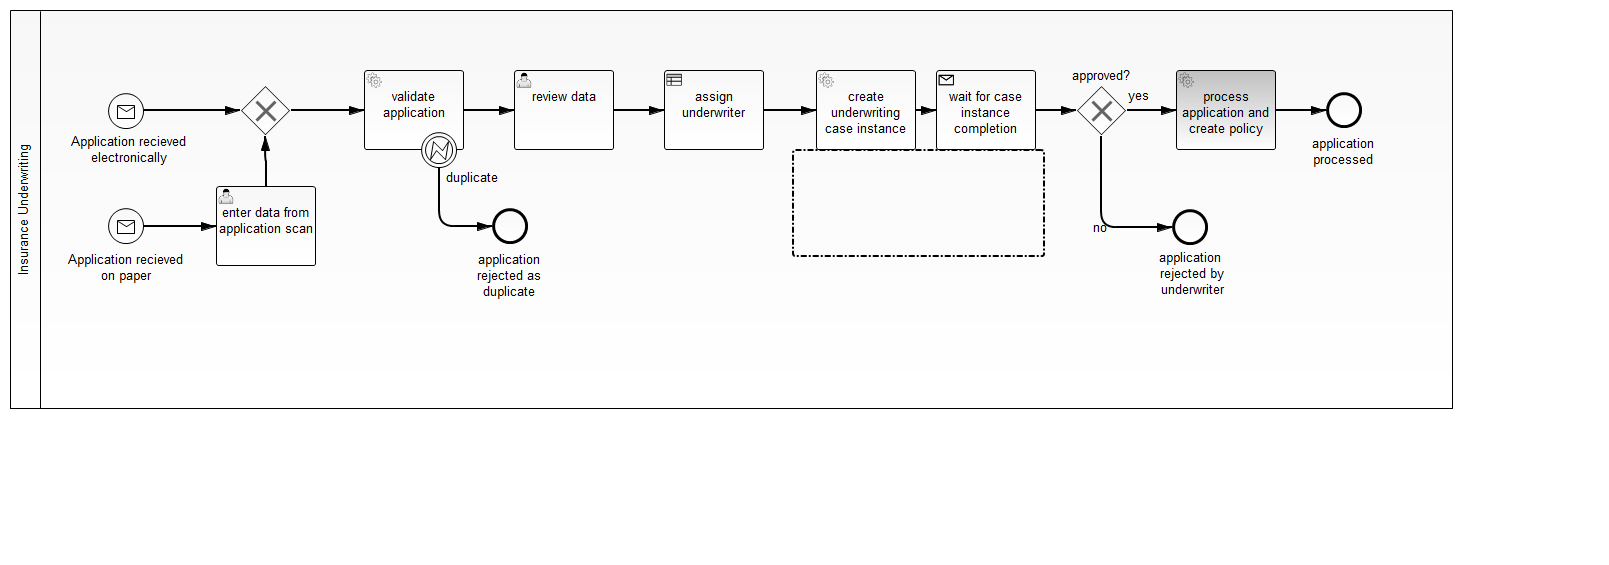
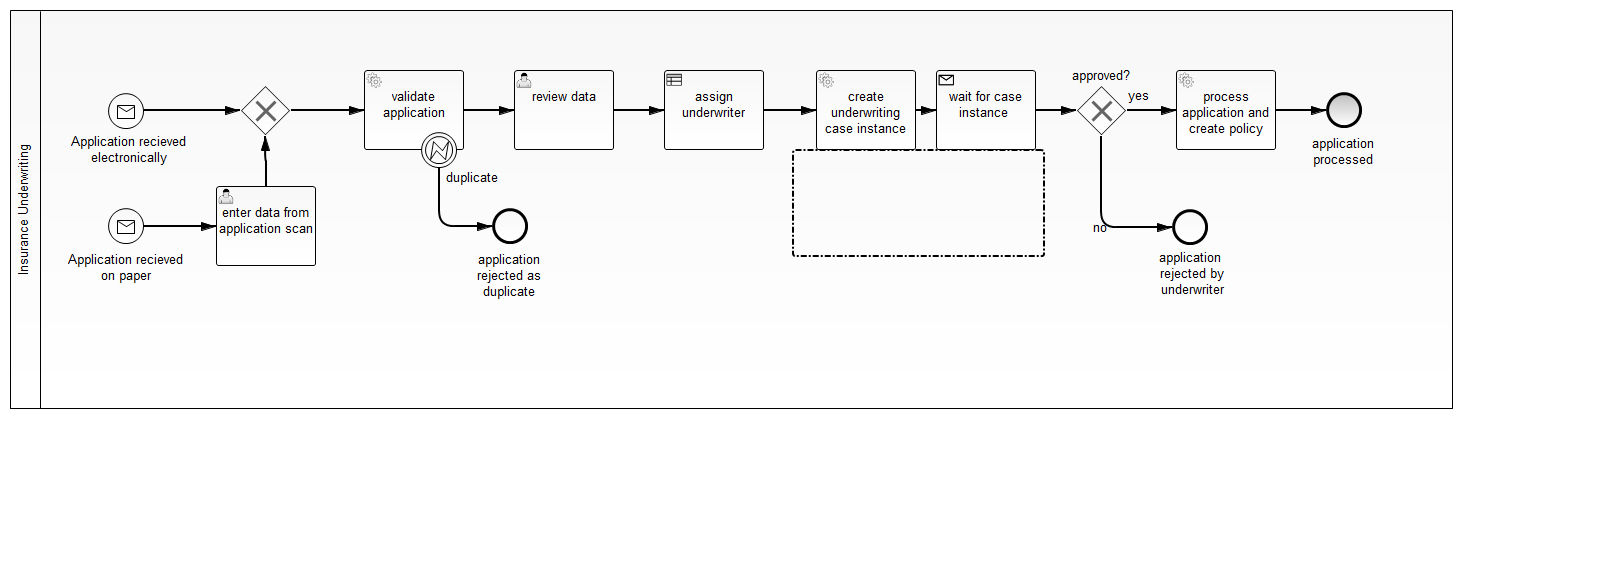
CMMN/BPMN combination now working

Changed region(s): [[0.7147, 0.1204, 0.839, 0.2106], [0.5904, 0.1805, 0.6526, 0.2407]]

diff --git a/one-time-examples/2015-01-webinars/webinar-cmmn/src/test/java/com/camunda/demo/webinar/cmmn/InMemoryH2Test.java b/one-time-examples/2015-01-webinars/webinar-cmmn/src/test/java/com/camunda/demo/webinar/cmmn/InMemoryH2Test.java
@@ -13,6 +13,7 @@ import org.camunda.bpm.engine.impl.persistence.entity.HistoricCaseActivityInstan
 import org.camunda.bpm.engine.impl.util.LogUtil;
 import org.camunda.bpm.engine.runtime.CaseExecution;
 import org.camunda.bpm.engine.runtime.CaseInstance;
+import org.camunda.bpm.engine.runtime.ProcessInstance;
 import org.camunda.bpm.engine.task.Task;
 import org.camunda.bpm.engine.test.ProcessEngineRule;
 import org.camunda.bpm.engine.test.Deployment;
@@ -84,24 +85,54 @@ public class InMemoryH2Test {
     System.out.println("####################");
     caseExecutions = processEngine().getCaseService().createCaseExecutionQuery().caseInstanceId(caseInstance.getId()).list();
     for (CaseExecution otherCaseExecution : caseExecutions) {
-      System.out.println(otherCaseExecution.getActivityName() + " -> " + ((CaseExecutionEntity)otherCaseExecution).getCurrentState().toString());
+      System.out.println(otherCaseExecution.getActivityName() + " -> " + ((CaseExecutionEntity) otherCaseExecution).getCurrentState().toString());
     }
     System.out.println("####################");
-    List<HistoricCaseActivityInstance> caseActivityInstances = processEngine().getHistoryService().createHistoricCaseActivityInstanceQuery().caseInstanceId(caseInstance.getId()).list();
+    List<HistoricCaseActivityInstance> caseActivityInstances = processEngine().getHistoryService().createHistoricCaseActivityInstanceQuery()
+        .caseInstanceId(caseInstance.getId()).list();
     for (HistoricCaseActivityInstance historicCaseActivityInstance : caseActivityInstances) {
-      System.out.println(historicCaseActivityInstance.getCaseActivityName() + " -> " + ((HistoricCaseActivityInstanceEntity)historicCaseActivityInstance).getCaseActivityInstanceState());
+      System.out.println(historicCaseActivityInstance.getCaseActivityName() + " -> "
+          + ((HistoricCaseActivityInstanceEntity) historicCaseActivityInstance).getCaseActivityInstanceState());
     }
     System.out.println("####################");
-
 
     caseInstance = processEngine().getCaseService().createCaseInstanceQuery().caseInstanceId(caseInstance.getId()).singleResult();
-    assertTrue( caseInstance.isCompleted());
+    assertTrue(caseInstance.isCompleted());
 
-    HistoricCaseInstance historicCaseInstance = processEngine().getHistoryService().createHistoricCaseInstanceQuery().caseInstanceId(caseInstance.getId()).singleResult();
-    assertTrue( historicCaseInstance.isCompleted());    
+    HistoricCaseInstance historicCaseInstance = processEngine().getHistoryService().createHistoricCaseInstanceQuery().caseInstanceId(caseInstance.getId())
+        .singleResult();
+    assertTrue(historicCaseInstance.isCompleted());
 
-   assertEquals(0, processEngine().getCaseService().createCaseInstanceQuery().caseInstanceId(caseInstance.getId()).count());
+    processEngine().getCaseService().closeCaseInstance(caseInstance.getId());
+
+    assertEquals(0, processEngine().getCaseService().createCaseInstanceQuery().caseInstanceId(caseInstance.getId()).count());
 
   }
 
+  @Test
+  @Deployment(resources = {"underwriting.cmmn", "underwriting.bpmn"})
+  public void testUnderwritingProcessIncludingCase() {
+    
+    ProcessInstance pi = processEngine().getRuntimeService().startProcessInstanceByMessage(Constants.MSG_START_ELECTRONIC_APPLICATION);
+    
+    assertThat(pi).task("userTaskReviewData");
+    complete(task());
+    
+    assertThat(pi).isWaitingFor(Constants.MSG_UNDERWRITING_FINISHED);
+    CaseInstance caseInstance = processEngine().getCaseService().createCaseInstanceQuery() //
+          .variableValueEquals(Constants.VAR_NAME_PROCESS_INSTANCE_ID, pi.getProcessInstanceId()) //
+          .singleResult();
+    
+    assertNotNull(caseInstance);
+
+    Task task = processEngine().getTaskService().createTaskQuery().caseInstanceId(caseInstance.getId()).singleResult();
+    assertNotNull(task);
+    assertEquals("PI_humanTaskDecide", task.getTaskDefinitionKey());
+
+    // set variable in case instead of just completing task because of bug: https://app.camunda.com/jira/browse/CAM-3261
+    processEngine().getCaseService().setVariable(caseInstance.getId(), "approved", Boolean.TRUE);
+    processEngine().getTaskService().complete(task.getId());
+
+    assertThat(pi).isEnded().hasPassed("endEventApplicationProcessed");
+  }
 }

diff --git a/one-time-examples/2015-01-webinars/webinar-cmmn/src/main/java/com/camunda/demo/webinar/cmmn/listener/CompleteCaseAndResumeProcessListener.java b/one-time-examples/2015-01-webinars/webinar-cmmn/src/main/java/com/camunda/demo/webinar/cmmn/listener/CompleteCaseAndResumeProcessListener.java
@@ -1,0 +1,30 @@
+package com.camunda.demo.webinar.cmmn.listener;
+
+import org.camunda.bpm.engine.delegate.CaseExecutionListener;
+import org.camunda.bpm.engine.delegate.DelegateCaseExecution;
+
+import com.camunda.demo.webinar.cmmn.Constants;
+
+public class CompleteCaseAndResumeProcessListener implements CaseExecutionListener {
+
+  @Override
+  public void notify(DelegateCaseExecution caseExecution) throws Exception {
+    System.out.println(" --- Completing Case ...");
+    caseExecution.getProcessEngineServices().getCaseService().completeCaseExecution( caseExecution.getCaseInstanceId() );
+//    caseExecution.getProcessEngineServices().getCaseService().closeCaseInstance( caseExecution.getCaseInstanceId() );
+
+    // correlate message if there is a waiting process instance
+    if (caseExecution.getProcessEngineServices().getRuntimeService().createExecutionQuery() //
+        .messageEventSubscriptionName(Constants.MSG_UNDERWRITING_FINISHED) //
+        .processVariableValueEquals(Constants.VAR_NAME_CASE_INSTANCE_ID, caseExecution.getCaseInstanceId())//
+        .count()>0) { 
+      System.out.println(" ... and sending message to waiting process ---");   
+      caseExecution.getProcessEngineServices().getRuntimeService().createMessageCorrelation(Constants.MSG_UNDERWRITING_FINISHED) //
+        .processInstanceVariableEquals(Constants.VAR_NAME_CASE_INSTANCE_ID, caseExecution.getCaseInstanceId()) //
+        .setVariable("approved", caseExecution.getVariable("approved")) //
+        .correlate();
+    } else {
+      System.out.println(" ... and do nothing as no waiting process instance is found ---");         
+    }
+  }
+}

diff --git a/one-time-examples/2015-01-webinars/webinar-cmmn/src/main/java/com/camunda/demo/webinar/cmmn/jsf/CaseRow.java b/one-time-examples/2015-01-webinars/webinar-cmmn/src/main/java/com/camunda/demo/webinar/cmmn/jsf/CaseRow.java
@@ -1,37 +1,28 @@
-package org.camunda.bpm.example.acm.controller;
+package com.camunda.demo.webinar.cmmn.jsf;
 
 import org.camunda.bpm.engine.repository.CaseDefinition;
 import org.camunda.bpm.engine.runtime.CaseInstance;
-import org.camunda.bpm.engine.task.Task;
 
 import com.camunda.demo.webinar.cmmn.domain.Application;
 
-public class TaskRow {
+public class CaseRow {
 
-  private Task task;
-  
-  private Application creditApplication;
   private CaseInstance caseInstance;
   private CaseDefinition caseDefinition;
+  private Application creditApplication;
 
-  public TaskRow(Task task, Application creditApplication, CaseInstance caseInstance, CaseDefinition caseDefinition) {
-    super();
-    this.task = task;
-    this.creditApplication = creditApplication;
+  public CaseRow(CaseInstance caseInstance, CaseDefinition caseDefinition, Application creditApplication) {
     this.caseInstance = caseInstance;
     this.caseDefinition = caseDefinition;
-  }
-
-  public Task getTask() {
-    return task;
-  }
-
-  public Application getCreditApplication() {
-    return creditApplication;
+    this.creditApplication = creditApplication;
   }
 
   public CaseInstance getCaseInstance() {
     return caseInstance;
+  }
+
+  public Application getCreditApplication() {
+    return creditApplication;
   }
 
   public CaseDefinition getCaseDefinition() {

diff --git a/one-time-examples/2015-01-webinars/webinar-cmmn/src/main/java/com/camunda/demo/webinar/cmmn/jsf/TaskRow.java b/one-time-examples/2015-01-webinars/webinar-cmmn/src/main/java/com/camunda/demo/webinar/cmmn/jsf/TaskRow.java
@@ -1,28 +1,37 @@
-package org.camunda.bpm.example.acm.controller;
+package com.camunda.demo.webinar.cmmn.jsf;
 
 import org.camunda.bpm.engine.repository.CaseDefinition;
 import org.camunda.bpm.engine.runtime.CaseInstance;
+import org.camunda.bpm.engine.task.Task;
 
 import com.camunda.demo.webinar.cmmn.domain.Application;
 
-public class CaseRow {
+public class TaskRow {
 
+  private Task task;
+  
+  private Application creditApplication;
   private CaseInstance caseInstance;
   private CaseDefinition caseDefinition;
-  private Application creditApplication;
 
-  public CaseRow(CaseInstance caseInstance, CaseDefinition caseDefinition, Application creditApplication) {
+  public TaskRow(Task task, Application creditApplication, CaseInstance caseInstance, CaseDefinition caseDefinition) {
+    super();
+    this.task = task;
+    this.creditApplication = creditApplication;
     this.caseInstance = caseInstance;
     this.caseDefinition = caseDefinition;
-    this.creditApplication = creditApplication;
   }
 
-  public CaseInstance getCaseInstance() {
-    return caseInstance;
+  public Task getTask() {
+    return task;
   }
 
   public Application getCreditApplication() {
     return creditApplication;
+  }
+
+  public CaseInstance getCaseInstance() {
+    return caseInstance;
   }
 
   public CaseDefinition getCaseDefinition() {

diff --git a/one-time-examples/2015-01-webinars/webinar-cmmn/src/main/java/com/camunda/demo/webinar/cmmn/listener/DisableRemainingActivitiesListener.java b/one-time-examples/2015-01-webinars/webinar-cmmn/src/main/java/com/camunda/demo/webinar/cmmn/listener/DisableRemainingActivitiesListener.java
@@ -1,4 +1,4 @@
-package com.camunda.demo.webinar.cmmn;
+package com.camunda.demo.webinar.cmmn.listener;
 
 import java.util.List;
 
@@ -20,14 +20,10 @@ public class DisableRemainingActivitiesListener implements CaseExecutionListener
       if (otherCaseExecution.isEnabled()) {
         caseExecution.getProcessEngineServices().getCaseService().disableCaseExecution(otherCaseExecution.getId());
       }
-      if (otherCaseExecution.isAvailable()) {
+//      if (otherCaseExecution.isAvailable()) {
 //        caseExecution.getProcessEngineServices().getCaseService().disableCaseExecution(otherCaseExecution.getId());
-      }
+//      }
       System.out.println(otherCaseExecution.getActivityName() + " -> " + ((CaseExecutionEntity)otherCaseExecution).getCurrentState().toString());
     }
-    
-    // Maybe to early because task completion is not yet done?
-//    caseExecution.getProcessEngineServices().getCaseService().completeCaseExecution(    caseExecution.getCaseInstanceId() );
-    
   }
 }

diff --git a/one-time-examples/2015-01-webinars/webinar-cmmn/src/main/java/com/camunda/demo/webinar/cmmn/listener/CreateCaseInstanceDelegate.java b/one-time-examples/2015-01-webinars/webinar-cmmn/src/main/java/com/camunda/demo/webinar/cmmn/listener/CreateCaseInstanceDelegate.java
@@ -1,0 +1,20 @@
+package com.camunda.demo.webinar.cmmn.listener;
+
+import org.camunda.bpm.engine.delegate.DelegateExecution;
+import org.camunda.bpm.engine.delegate.JavaDelegate;
+import org.camunda.bpm.engine.runtime.CaseInstance;
+import org.camunda.bpm.engine.variable.VariableMap;
+import org.camunda.bpm.engine.variable.Variables;
+
+import com.camunda.demo.webinar.cmmn.Constants;
+
+public class CreateCaseInstanceDelegate implements JavaDelegate {
+
+  @Override
+  public void execute(DelegateExecution execution) throws Exception {
+    VariableMap variables = Variables.createVariables().putValue(Constants.VAR_NAME_PROCESS_INSTANCE_ID, execution.getProcessInstanceId());
+    CaseInstance caseInstance = execution.getProcessEngineServices().getCaseService().createCaseInstanceByKey(Constants.CASE_DEFITION_KEY_UNDERWRITING, variables);
+    execution.setVariable(Constants.VAR_NAME_CASE_INSTANCE_ID, caseInstance.getCaseInstanceId());
+  }
+
+}

diff --git a/one-time-examples/2015-01-webinars/webinar-cmmn/src/main/java/com/camunda/demo/webinar/cmmn/Constants.java b/one-time-examples/2015-01-webinars/webinar-cmmn/src/main/java/com/camunda/demo/webinar/cmmn/Constants.java
@@ -1,0 +1,13 @@
+package com.camunda.demo.webinar.cmmn;
+
+public class Constants {
+
+  public static final String VAR_NAME_CASE_INSTANCE_ID = "CALLED_CASE_INSTANCE_ID";
+  public static final String VAR_NAME_PROCESS_INSTANCE_ID = "CALLING_PROCESS_INSTANCE_ID";
+
+  public static final String MSG_UNDERWRITING_FINISHED = "msgUnderwritingFinished";
+  public static final String MSG_START_ELECTRONIC_APPLICATION = "msgElectronicApplication";
+
+  public static final String CASE_DEFITION_KEY_UNDERWRITING = "underwriting";
+  public static final String PROCESS_DEFITION_KEY_UNDERWRITING = "underwriting";
+}

diff --git a/one-time-examples/2015-01-webinars/webinar-cmmn/src/main/java/com/camunda/demo/webinar/cmmn/listener/CloseCaseInstanceListener.java b/one-time-examples/2015-01-webinars/webinar-cmmn/src/main/java/com/camunda/demo/webinar/cmmn/listener/CloseCaseInstanceListener.java
@@ -1,0 +1,16 @@
+package com.camunda.demo.webinar.cmmn.listener;
+
+import org.camunda.bpm.engine.delegate.DelegateExecution;
+import org.camunda.bpm.engine.delegate.ExecutionListener;
+
+import com.camunda.demo.webinar.cmmn.Constants;
+
+public class CloseCaseInstanceListener implements ExecutionListener {
+
+  @Override
+  public void notify(DelegateExecution execution) throws Exception {
+    String caseInstanceId = (String) execution.getVariable(Constants.VAR_NAME_CASE_INSTANCE_ID);
+    execution.getProcessEngineServices().getCaseService().closeCaseInstance(caseInstanceId);
+  }
+
+}

diff --git a/one-time-examples/2015-01-webinars/webinar-cmmn/src/main/java/com/camunda/demo/webinar/cmmn/jsf/UserController.java b/one-time-examples/2015-01-webinars/webinar-cmmn/src/main/java/com/camunda/demo/webinar/cmmn/jsf/UserController.java
@@ -1,4 +1,4 @@
-package org.camunda.bpm.example.acm.controller;
+package com.camunda.demo.webinar.cmmn.jsf;
 
 import java.io.Serializable;
 import javax.enterprise.context.SessionScoped;

diff --git a/one-time-examples/2015-01-webinars/webinar-cmmn/src/main/java/com/camunda/demo/webinar/cmmn/jsf/CaseController.java b/one-time-examples/2015-01-webinars/webinar-cmmn/src/main/java/com/camunda/demo/webinar/cmmn/jsf/CaseController.java
@@ -1,4 +1,4 @@
-package org.camunda.bpm.example.acm.controller;
+package com.camunda.demo.webinar.cmmn.jsf;
 
 import java.io.Serializable;
 import java.util.ArrayList;

diff --git a/one-time-examples/2015-01-webinars/webinar-cmmn/src/main/java/com/camunda/demo/webinar/cmmn/jsf/CaseListController.java b/one-time-examples/2015-01-webinars/webinar-cmmn/src/main/java/com/camunda/demo/webinar/cmmn/jsf/CaseListController.java
@@ -1,4 +1,4 @@
-package org.camunda.bpm.example.acm.controller;
+package com.camunda.demo.webinar.cmmn.jsf;
 
 import java.io.Serializable;
 import java.util.ArrayList;

diff --git a/one-time-examples/2015-01-webinars/webinar-cmmn/src/main/java/com/camunda/demo/webinar/cmmn/jsf/TasklistController.java b/one-time-examples/2015-01-webinars/webinar-cmmn/src/main/java/com/camunda/demo/webinar/cmmn/jsf/TasklistController.java
@@ -1,4 +1,4 @@
-package org.camunda.bpm.example.acm.controller;
+package com.camunda.demo.webinar.cmmn.jsf;
 
 import java.util.ArrayList;
 import java.util.List;
